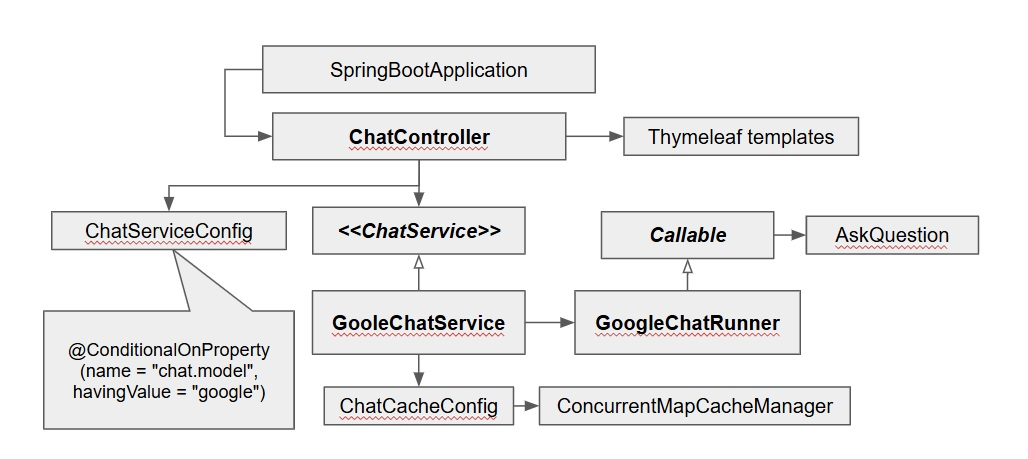
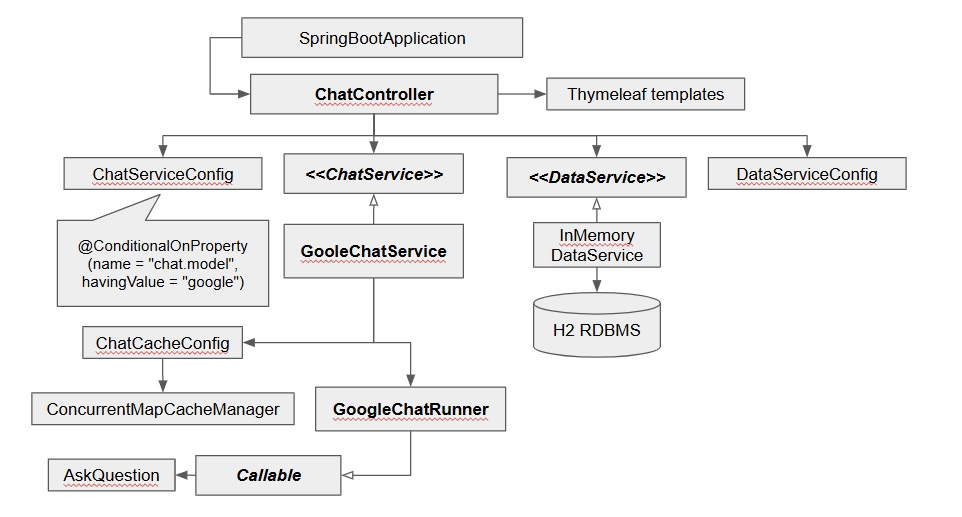
Use h2 to track number of times a question is asked

Changed region(s): [[0.0312, 0.0305, 0.9356, 0.976], [0.7484, 0.4575, 0.9667, 0.5795], [0.2183, 0.061, 0.2495, 0.0915]]

diff --git a/src/main/resources/templates/popularquestions.html b/src/main/resources/templates/popularquestions.html
@@ -1,0 +1,42 @@
+<!DOCTYPE html>
+<html xmlns:th="http://www.thymeleaf.org">
+<head>
+    <title>Popular AI Questions</title>
+    
+  <style>
+    table {
+      border-collapse: collapse;
+      width: 100%; /* Optional: Make the table take up the full width */
+    }
+
+    th, td {
+      border: 1px solid black;
+      padding: 8px; /* Optional: Adds spacing between cell content and border */
+      text-align: left; /* Optional: Aligns cell content to the left */
+    }
+  </style>
+        
+</head>
+<body>
+
+    <h1>Popular Questions and Count:</h1>
+    
+    <table>
+      <tr>
+        <th>Question</th>
+        <th>Number of times asked</th>
+      </tr>
+      
+      <tr th:each="entry : ${popularQuestionsMap}">
+          <td th:text="${entry.key}"></td>
+          <td th:text="${entry.value}"></td>  
+      </tr>
+      
+    </table>
+    
+    
+
+    
+
+</body>
+</html>

diff --git a/src/main/java/com/sanutty/ai/app/InMemoryDataService.java b/src/main/java/com/sanutty/ai/app/InMemoryDataService.java
@@ -1,0 +1,111 @@
+package com.sanutty.ai.app;
+
+import java.sql.Connection;
+import java.sql.DriverManager;
+import java.sql.PreparedStatement;
+import java.sql.ResultSet;
+import java.util.HashMap;
+import java.util.Map;
+
+import org.slf4j.Logger;
+import org.slf4j.LoggerFactory;
+import org.springframework.beans.factory.annotation.Value;
+import org.springframework.stereotype.Service;
+
+@Service
+public class InMemoryDataService implements DataService
+{
+  Logger log = LoggerFactory.getLogger(InMemoryDataService.class);
+  
+  @Value("${spring.datasource.driver-class-name}")
+  private String JDBC_DRIVER;
+  
+  @Value("${spring.datasource.url}")
+  private String DB_URL;
+  
+  @Value("${spring.datasource.username}")
+  private String USER;
+  
+  @Value("${spring.datasource.password}")
+  private String PASS;
+  
+
+  @Override
+  public void updateQuestionCount( String question )
+  {
+    Connection conn = null;
+    ResultSet rs = null;
+    PreparedStatement stmt = null;
+    int existingCount = 0;
+    String updateSQL = null;
+    
+    try {
+        conn = DriverManager.getConnection(DB_URL, USER, PASS);
+        stmt = conn.prepareStatement("select * from questioncount where question = '" +  question + "'");
+        rs = stmt.executeQuery();
+        
+        if (rs.next()) {
+          existingCount = rs.getInt("count");
+          updateSQL = "update questioncount set count = " + (existingCount+1) + " where question= '" +  question + "'";
+        } else {
+          updateSQL = "insert into questioncount (question, count) values('" + question + "', 1)";  
+        }
+        
+        stmt = conn.prepareStatement( updateSQL );
+        stmt.execute();         
+    
+    } catch (Exception e) {
+      log.error( e.getMessage() );
+    } finally {
+      try {
+        if (rs != null ) {
+          rs.close();
+        }
+        stmt.close();
+        conn.close();
+      } catch (Exception e) {
+        log.error( e.getMessage() );  
+      }
+    }
+    
+  }
+
+  @Override
+  public Map<String, Integer> getPopularQuestions(int askedFrequence)
+  {
+    Map<String, Integer> results = new HashMap<>();
+    
+    Connection conn = null;
+    ResultSet rs = null;
+    PreparedStatement stmt = null;
+    
+    try {
+      
+      conn = DriverManager.getConnection(DB_URL, USER, PASS);
+      stmt = conn.prepareStatement("select * from questioncount where count >=" +  askedFrequence + " order by count desc");
+      rs = stmt.executeQuery();
+      
+      while (rs.next()) {
+        String question = rs.getString("question");
+        int count = rs.getInt("count");
+        results.put( question, count );
+      }
+      
+    } catch (Exception e) {
+      log.error( e.getMessage() );
+    } finally {
+      try {
+        if (rs != null ) {
+          rs.close();
+        }
+        stmt.close();
+        conn.close();
+      } catch (Exception e) {
+        log.error( e.getMessage() );
+      }
+    }
+    
+    return results;
+  }
+
+}

diff --git a/src/main/java/com/sanutty/ai/app/AIChatController.java b/src/main/java/com/sanutty/ai/app/AIChatController.java
@@ -1,6 +1,6 @@
 package com.sanutty.ai.app;
 
-
+import java.util.Map;
 
 import org.springframework.beans.factory.annotation.Autowired;
 import org.springframework.stereotype.Controller;
@@ -8,6 +8,7 @@ import org.springframework.ui.Model;
 import org.springframework.web.bind.annotation.GetMapping;
 import org.springframework.web.bind.annotation.ModelAttribute;
 import org.springframework.web.bind.annotation.PostMapping;
+import org.springframework.web.servlet.ModelAndView;
 
 
 @Controller
@@ -16,6 +17,10 @@ public class AIChatController
   
   @Autowired
   private ChatService chatService;
+
+  @Autowired
+  private DataService dataService;
+
   
   @GetMapping("/ask-ai")
   public String greetingForm(Model model) {
@@ -26,8 +31,18 @@ public class AIChatController
   @PostMapping("/ask-ai")
   public String greetingSubmit(@ModelAttribute AskQuestion question, Model model) {
     AskQuestion answer = chatService.chat( question );
+    dataService.updateQuestionCount(question.getQuestion() );
     model.addAttribute("answer", answer);
     return "answer";
   }
+  
+  @GetMapping("/ask-ai/popular")
+  public ModelAndView mostPopularQuestions() {
+    ModelAndView mav = new ModelAndView("popularquestions");
+    Map<String, Integer> popularQuestionsMap = dataService.getPopularQuestions( 2 );
+    mav.addObject("popularQuestionsMap", popularQuestionsMap);
+    return mav;
+  }
+  
   
 }

diff --git a/src/main/java/com/sanutty/ai/app/QuestionEntity.java b/src/main/java/com/sanutty/ai/app/QuestionEntity.java
@@ -1,0 +1,26 @@
+package com.sanutty.ai.app;
+
+import jakarta.persistence.*;
+
+@Entity
+@Table(name = "questioncount")
+public class QuestionEntity 
+{ 
+    @Id 
+    @Column(length = 125, nullable = false)
+    private String question;
+    
+    @Column(length = 2048, nullable = false)
+    private int count;
+    
+
+    public String getValue()
+    {
+      return question;
+    }
+    public void setValue( String value )
+    {
+      this.question = value;
+    }
+    
+}

diff --git a/src/main/java/com/sanutty/ai/app/DataService.java b/src/main/java/com/sanutty/ai/app/DataService.java
@@ -1,0 +1,18 @@
+package com.sanutty.ai.app;
+
+import java.util.Map;
+
+public interface DataService {
+  /**
+   * Update the count a specific question was asked
+   * @param question
+   */
+  public void updateQuestionCount(String question);
+  
+  /**
+   * Get the most frequently asked questions, each with count
+   * @param questionCount
+   * @return
+   */
+  public Map<String, Integer> getPopularQuestions(int askedFrequence) ;
+}

diff --git a/src/main/java/com/sanutty/ai/app/DataServiceConfig.java b/src/main/java/com/sanutty/ai/app/DataServiceConfig.java
@@ -1,0 +1,15 @@
+package com.sanutty.ai.app;
+
+import org.springframework.boot.autoconfigure.condition.ConditionalOnProperty;
+import org.springframework.context.annotation.Bean;
+
+
+public class DataServiceConfig {
+  
+  @Bean
+  @ConditionalOnProperty(name = "data.service.implementation", havingValue = "inmemory")
+  public DataService geInMemoryDataService() {
+      return new InMemoryDataService();
+  }
+
+}

diff --git a/README.md b/README.md
@@ -1,6 +1,6 @@
 # Tiny AI Chat Service
  
-This is a Spring Boot application with a simple text box to ask AI a question. The current design uses the goole chat client to the free tier API key. The chat service is configurable and the google chat can be easily replaced with another chat model by simply changing it in application.properties and adding a new service implementation. A simple ConcurrentMapCacheManager cache is used for commonly asked questions. 
+This is a Spring Boot application with a simple text box to ask AI a question. The current design uses the google chat client to the free tier API key. The chat service is configurable and the google chat can be easily replaced with another chat model by simply changing it in application.properties and adding a new service implementation. A simple ConcurrentMapCacheManager cache is used for commonly asked questions. H2 in-memory database is used to keep track of the number of times that a question has been answered. Questions that have been asked 2 or more times can be retrieved and displayed. 
 
 
 ### Software Design  
@@ -9,6 +9,13 @@ The software architecture diagram is listed below. The google chat service uses 
 
 ![Alt text](Design.jpg?raw=true "Architectural Design")
 
+### Question Page
+
+![Alt text](askQuestion.jpg?raw=true "Ask a question")
+  
+### Popular Questions Page
+
+![Alt text](popularQuestionsCount.jpg?raw=true "Popular questions count ")
 
 ### Running the application 
 
